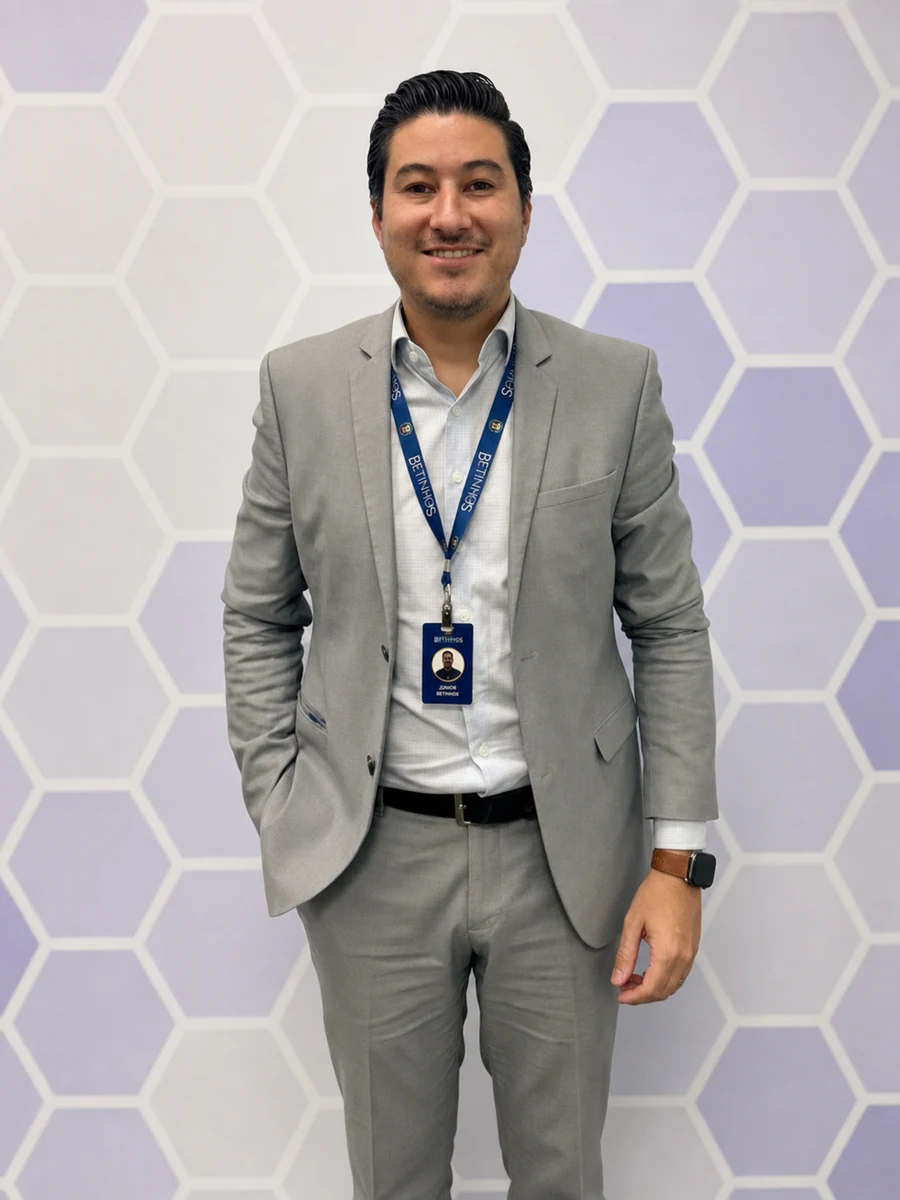
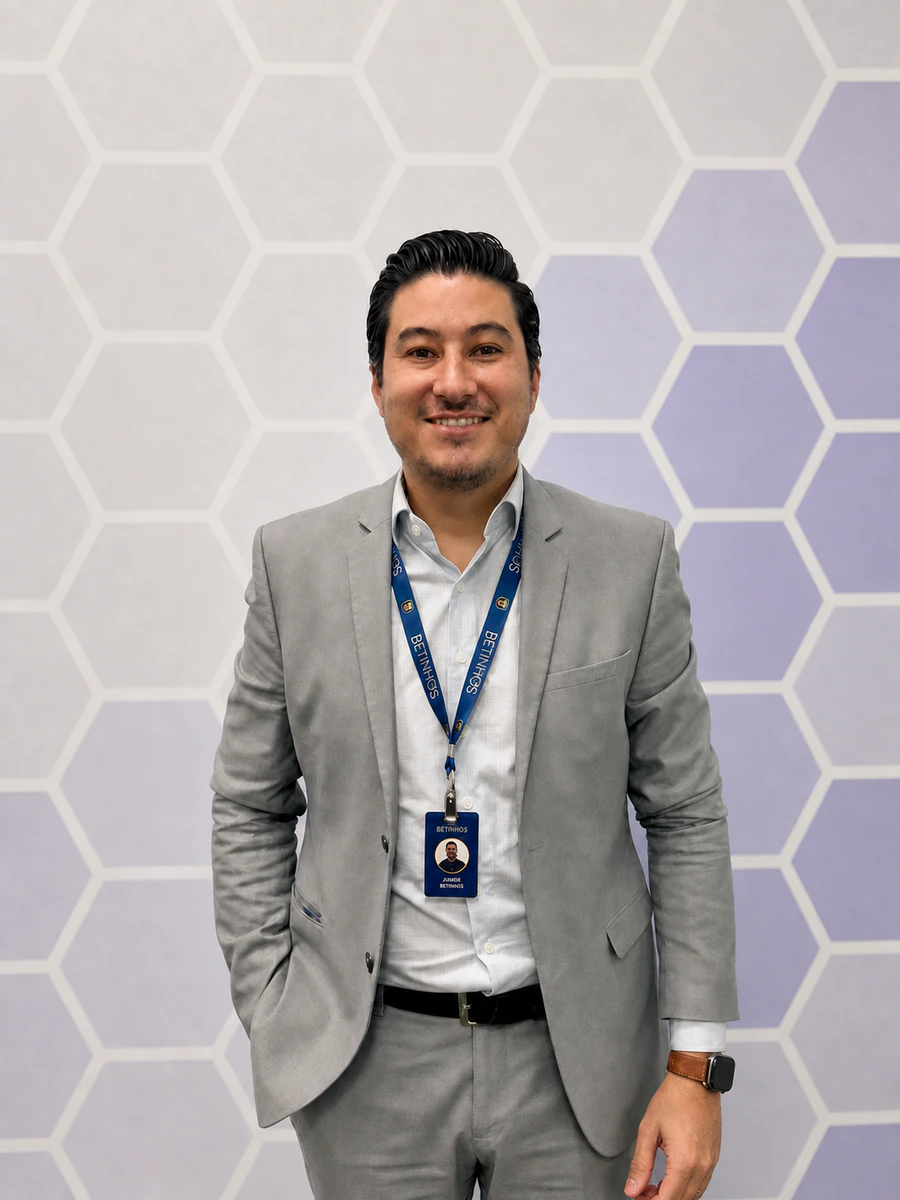
Ajusta enquadramento do retrato do Júnior
Substitui o retrato do Júnior por uma versão com corte nas coxas e maior aproximação, mantendo identidade, pose, iluminação, fundo e colorização da série.

Aplica posicionamento visual específico para alinhar a altura da cabeça aos demais integrantes e preserva o efeito de aproximação durante o hover.

diff --git a/site/assets/index-D7fnJsCl.css b/site/assets/index-D7fnJsCl.css
@@ -1986,6 +1986,12 @@ body:before {
 .team-grid article:hover img {
   transform: scale(1.035);
 }
+.team-grid article:nth-child(2) img {
+  transform: translateY(-4%) scale(1.08);
+}
+.team-grid article:nth-child(2):hover img {
+  transform: translateY(-4%) scale(1.115);
+}
 .client-logos img {
   transition:
     filter 0.4s ease,
